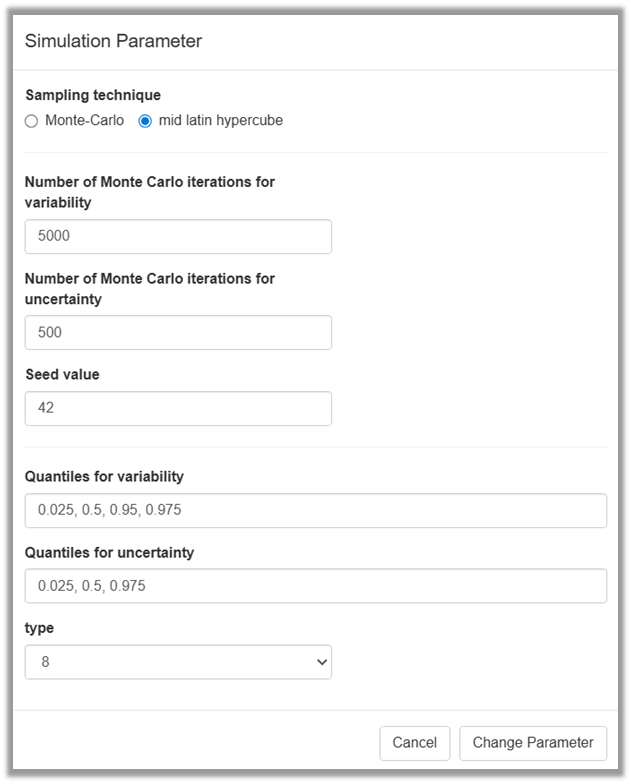
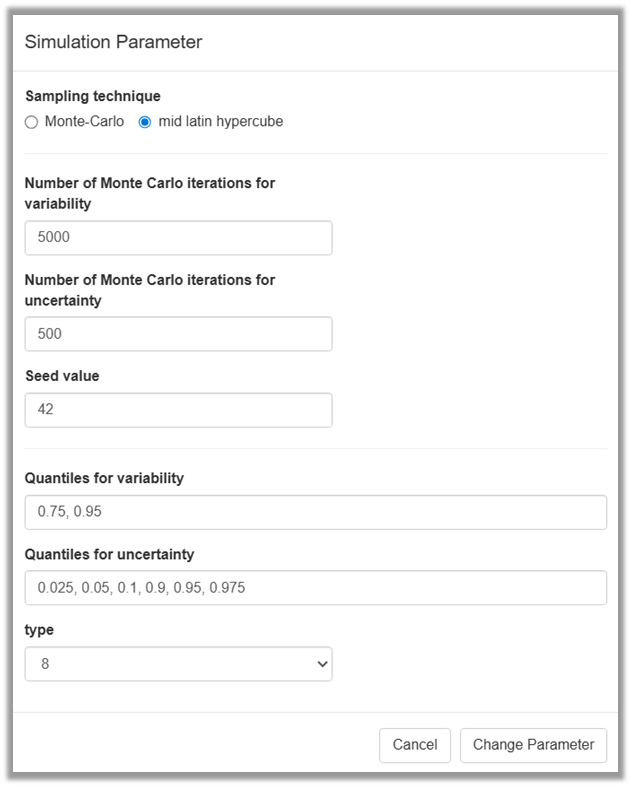
simulation

diff --git a/_simulation.html b/_simulation.html
@@ -214,13 +214,13 @@ Good practice - Number of replicates
 <i class="callout-icon"></i>
 </div>
 <div class="callout-title-container flex-fill">
-Good practice - choice of percentiles for numerical results
+Good practice - Choice of percentiles for numerical results
 </div>
 <div class="callout-btn-toggle d-inline-block border-0 py-1 ps-1 pe-0 float-end"><i class="callout-toggle"></i></div>
 </div>
 <div id="callout-4" class="callout-4-contents callout-collapse collapse">
 <div class="callout-body-container callout-body">
-<p>The median (as a measure of central tendency) and 95th percentile (as an upper are usually reported to characterize the variability of the outcome in exposure or risk models. If a 2D simulation has been conducted to account for (parameter) uncertainty, the outcome statistics are usually reported with a 95% uncertainty interval, i.e.&nbsp;an interval ranging from the 2.5th to the 97.5th percentile, [0.025, 0.975] in decimal notation of the uncertainty distribution. Other symmetrical uncertainty intervals such</p>
+<p>The median as a measure of central tendency and 95th percentile for characterizing the spread towards more extreme outcomes are usually reported to characterize the variability of the outcome in exposure or risk models. If a 2D simulation has been conducted to account for parameter uncertainty, these outcome statistics are usually reported with a 95% uncertainty interval, i.e.&nbsp;an interval ranging from the 2.5th to the 97.5th percentile of the uncertainty distribution. If this interval is too wide to convey useful information, more narrow symmetrical intervals such as 10th and 90th percentile may be appropriate.</p>
 </div>
 </div>
 </div>
@@ -236,7 +236,7 @@ Read more - Monte Carlo (MC) vs.&nbsp;latin hypercube (LH) sampling
 </div>
 <div id="callout-5" class="callout-5-contents callout-collapse collapse">
 <div class="callout-body-container callout-body">
-<p>Two sampling methods can be used in shiny rrisk. The Latin Hypercube (LH) method is more efficient and will provide same accuracy as the Monte Carlo (MC) method with fewer samples. In addition the LH will assure that samples are taken from the whole distribution, which is also better for rare events. The LH might reduce the number of samples required by a factor of 10 compared with the MC method. The LH is the default method in shiny rrisk.</p>
+<p>Two sampling methods can be used in shiny rrisk. The Latin Hypercube (LH) method is more efficient and will provide the same accuracy as the Monte Carlo (MC) method with fewer samples. In addition the LH will assure that samples are taken from the whole distribution, which is also better for rare events. The LH might reduce the number of samples required by a factor of 10 compared with the MC method. The LH is the default method in shiny rrisk.</p>
 <p>The LH method divides each random variable’s range into equal probability intervals (strata) according the number of samples required in the simulation and then take one sample from each interval per variable. Then the full coverage of each variable is sampled.</p>
 <p><a href="#fig-mc_lh_v2" class="quarto-xref">Figure&nbsp;3</a> shows two input parameters of the simple risk model <span class="math inline">\(\mbox{Risk}=X_1*X_2\)</span>. Note that even with a small number of 80 sampling replicates, LH sampling results in a more homogeneous coverage of the sampling space as compared to the MC method.</p>
 <div id="fig-mc_lh_v2" class="quarto-figure quarto-figure-center quarto-float anchored">
@@ -289,7 +289,7 @@ Figure&nbsp;3: Scatter plot of two input quantities (80 sampling replicates).
 <p>After setting all the parameters, select <strong>Run Simulation.</strong> After the simulation is completed, shiny rrisk will present <strong>general results</strong> and <strong>sensitivity plot.</strong></p>
 <section id="general-results" class="level3">
 <h3 class="anchored" data-anchor-id="general-results">General results</h3>
-<p>Under <strong>general results</strong> you can access the numerical as well as the graphical results of your model. The end node (final outcome of your model) is shown by default. The results of any other node can be shown as well by selecting the <strong>Node</strong> from the drop-down menu.</p>
+<p>Under <strong>general results</strong> you can access the numerical as well as the graphical results of your model. The end node (final outcome of your model) is shown by default. The results of any other node can be shown by selecting the <strong>Node</strong> from the drop-down menu.</p>
 <section id="one-dimensional-1d-simulation" class="level4">
 <h4 class="anchored" data-anchor-id="one-dimensional-1d-simulation">One-dimensional (1D) simulation</h4>
 <p>Shiny rrisk conducts a one-dimensional (1D) simulation, if none of the distribution nodes is defined to represent uncertainty. In this case, the numerical outcome consists of only one row of results, the <strong>mean</strong>, <strong>median</strong>, standard deviation (<strong>sd</strong>), a selection of <strong>percentiles</strong> (see Simulation settings) as well as the <strong>unit</strong>. This is shown using the <em>Yersinia enterocolitica</em> in minced meat model as example. The median and 95th percentile of the outcome (N_cg) is 0 and 89 colony forming units (CFU), respectively (<a href="#fig-general_results_out_1D" class="quarto-xref">Figure&nbsp;4</a>).</p>
@@ -306,7 +306,7 @@ Figure&nbsp;4: Numerical results for a one-dimensional (1D) simulation (<em>Yers
 </section>
 <section id="two-dimensional-2d-simulation" class="level4">
 <h4 class="anchored" data-anchor-id="two-dimensional-2d-simulation">Two-dimensional (2D) simulation</h4>
-<p>Shiny rrisk conducts a two-dimensional (2D) simulation, if at least one of the distribution nodes is defined to represent uncertainty. In this case, the numerical outcome consists of colums as defined for 1D models (see above) and rows for the <strong>mean</strong>, <strong>median</strong>, standard deviation (<strong>sd</strong>), a selection of <strong>percentiles</strong> for the uncertainty dimension (see Simulation settings). This is shown using the <em>E. coli</em> in beef patties model as example. The 95% uncertainty interval for median and 95th percentile for the outcome (risk) is 0.002-0.135 and 0.3-1.0, respectively (<a href="#fig-general_results_out_2D" class="quarto-xref">Figure&nbsp;5</a>).</p>
+<p>Shiny rrisk conducts a two-dimensional (2D) simulation, if at least one of the distribution nodes is defined to represent uncertainty. In this case, the numerical outcome consists of colums as defined for 1D models (see above) and rows for the <strong>mean</strong>, <strong>median</strong>, standard deviation (<strong>sd</strong>), a selection of <strong>percentiles</strong> for the uncertainty dimension (see Simulation settings). This is shown using the <em>E. coli</em> in beef patties model as example. The 90% uncertainty interval for median and 95th percentile for the outcome (risk) is 0.003-0.087 and 0.442-1.0, respectively (<a href="#fig-general_results_out_2D" class="quarto-xref">Figure&nbsp;5</a>).</p>
 <div id="fig-general_results_out_2D" class="quarto-figure quarto-figure-center quarto-float anchored">
 <figure class="quarto-float quarto-float-fig figure">
 <div aria-describedby="fig-general_results_out_2D-caption-0ceaefa1-69ba-4598-a22c-09a6ac19f8ca">
@@ -317,8 +317,43 @@ Figure&nbsp;5: Numerical results for a two-dimensional (2D) simulation (<em>E. c
 </figcaption>
 </figure>
 </div>
-<p>T### Graphical results</p>
+<div class="callout callout-style-default callout-caution callout-titled">
+<div class="callout-header d-flex align-content-center" data-bs-toggle="collapse" data-bs-target=".callout-6-contents" aria-controls="callout-6" aria-expanded="false" aria-label="Toggle callout">
+<div class="callout-icon-container">
+<i class="callout-icon"></i>
+</div>
+<div class="callout-title-container flex-fill">
+Read more - Interpretation of percentiles
+</div>
+<div class="callout-btn-toggle d-inline-block border-0 py-1 ps-1 pe-0 float-end"><i class="callout-toggle"></i></div>
+</div>
+<div id="callout-6" class="callout-6-contents callout-collapse collapse">
+<div class="callout-body-container callout-body">
+<p>Percentiles of the outcome function evaluated using shiny rrisk can be regarded as unbiased in a statistical sense. This property of probabilistic modelling is advantageous in comparison to a deterministic approach that would give you a biased result under general conditions.</p>
+<p>Assume you were interested in the high, say 95th percentile of the outcome distribution. This is typically the case to account for the high end of the range of outcomes consistent with the information captured in the model. Using a <strong>deterministic approach</strong>, you would use the “high risk percentile” for each of the input variables. Note that a “high risk” percentile could be the 5th percentile if the quantity is in the denominator of the risk expression. The result of the</p>
+</div>
+</div>
+</div>
+<div class="callout callout-style-default callout-caution callout-titled">
+<div class="callout-header d-flex align-content-center" data-bs-toggle="collapse" data-bs-target=".callout-7-contents" aria-controls="callout-7" aria-expanded="false" aria-label="Toggle callout">
+<div class="callout-icon-container">
+<i class="callout-icon"></i>
+</div>
+<div class="callout-title-container flex-fill">
+Read more - Monte Carlo (MC) vs.&nbsp;latin hypercube (LH) sampling
+</div>
+<div class="callout-btn-toggle d-inline-block border-0 py-1 ps-1 pe-0 float-end"><i class="callout-toggle"></i></div>
+</div>
+<div id="callout-7" class="callout-7-contents callout-collapse collapse">
+<div class="callout-body-container callout-body">
+<p>Two sampling methods can be used in shiny rrisk. The Latin Hypercube (LH) you would would evaluate te mathematical in the pop,</p>
+</div>
+</div>
+</div>
 </section>
+</section>
+<section id="graphical-results" class="level3">
+<h3 class="anchored" data-anchor-id="graphical-results">Graphical results</h3>
 <section id="histogram" class="level4">
 <h4 class="anchored" data-anchor-id="histogram">Histogram</h4>
 <p>This plot depicts the density distribution of the random values for a given node.</p>
@@ -334,7 +369,7 @@ Figure&nbsp;5: Numerical results for a two-dimensional (2D) simulation (<em>E. c
 <p><span class="citation" data-cites="Robert">@Robert</span> - how to interpret this one?</p>
 <p><img src="images/conv_ecoli_2D.png" class="img-fluid" style="border: 2px solid black;  box-shadow: 4px 4px 12px rgba(0, 0, 0, 0.6);" width="500"></p>
 <div class="callout callout-style-default callout-caution callout-titled">
-<div class="callout-header d-flex align-content-center" data-bs-toggle="collapse" data-bs-target=".callout-6-contents" aria-controls="callout-6" aria-expanded="false" aria-label="Toggle callout">
+<div class="callout-header d-flex align-content-center" data-bs-toggle="collapse" data-bs-target=".callout-8-contents" aria-controls="callout-8" aria-expanded="false" aria-label="Toggle callout">
 <div class="callout-icon-container">
 <i class="callout-icon"></i>
 </div>
@@ -343,7 +378,7 @@ Read more - 2D MC Models
 </div>
 <div class="callout-btn-toggle d-inline-block border-0 py-1 ps-1 pe-0 float-end"><i class="callout-toggle"></i></div>
 </div>
-<div id="callout-6" class="callout-6-contents callout-collapse collapse">
+<div id="callout-8" class="callout-8-contents callout-collapse collapse">
 <div class="callout-body-container callout-body">
 <p>The following figure depicts the outcome of a probabilistic model that reflects both variability and uncertainty (2D MC). <img src="images/clipboard-4283040366.png" class="img-fluid"></p>
 <p>The central tendency (median) of the risk estimate can be read from the intersection of the dark blue line with the red line parallel to the x-axis at a probability value in the y-axis of 0.5. The value is around 1e-11.</p>
@@ -361,7 +396,7 @@ Read more - 2D MC Models
 <p>Since this is a 2D model, the tornado plot also present the 95%. probability interval due to the uncertainty of the risk outcome.</p>
 <p><img src="images/tornado_pearson_ecoli.png" class="img-fluid" style="border: 2px solid black;  box-shadow: 4px 4px 12px rgba(0, 0, 0, 0.6);" width="500"></p>
 <div class="callout callout-style-default callout-caution callout-titled">
-<div class="callout-header d-flex align-content-center" data-bs-toggle="collapse" data-bs-target=".callout-7-contents" aria-controls="callout-7" aria-expanded="false" aria-label="Toggle callout">
+<div class="callout-header d-flex align-content-center" data-bs-toggle="collapse" data-bs-target=".callout-9-contents" aria-controls="callout-9" aria-expanded="false" aria-label="Toggle callout">
 <div class="callout-icon-container">
 <i class="callout-icon"></i>
 </div>
@@ -370,7 +405,7 @@ Read more: Tornado plots
 </div>
 <div class="callout-btn-toggle d-inline-block border-0 py-1 ps-1 pe-0 float-end"><i class="callout-toggle"></i></div>
 </div>
-<div id="callout-7" class="callout-7-contents callout-collapse collapse">
+<div id="callout-9" class="callout-9-contents callout-collapse collapse">
 <div class="callout-body-container callout-body">
 <p>Tornado plots are commonly used in risk and exposure assessments models to assess the quantify the impact of input variables on the outcome of the model. This relationship is quantified using parametric (eg. Pearson correlation coefficient) or non-parametric (eg. Spearman rank correlation coefficient - rho -) statistics.</p>
 <p>The graphs is created using all the input variables on the y-axis and the statistic on the x-axis, then the relationship is depicted using horizontal bars where the length of the bar represents the value of the statistic. This value is constraint by the boundaries of the statistic (eg. between -1 and 1). Where values below 0 represent an inverse relationship and values greater than 0, otherwise. For instance negative values suggest that higher values of the input are associates with lower values of the outcome variable.</p>
